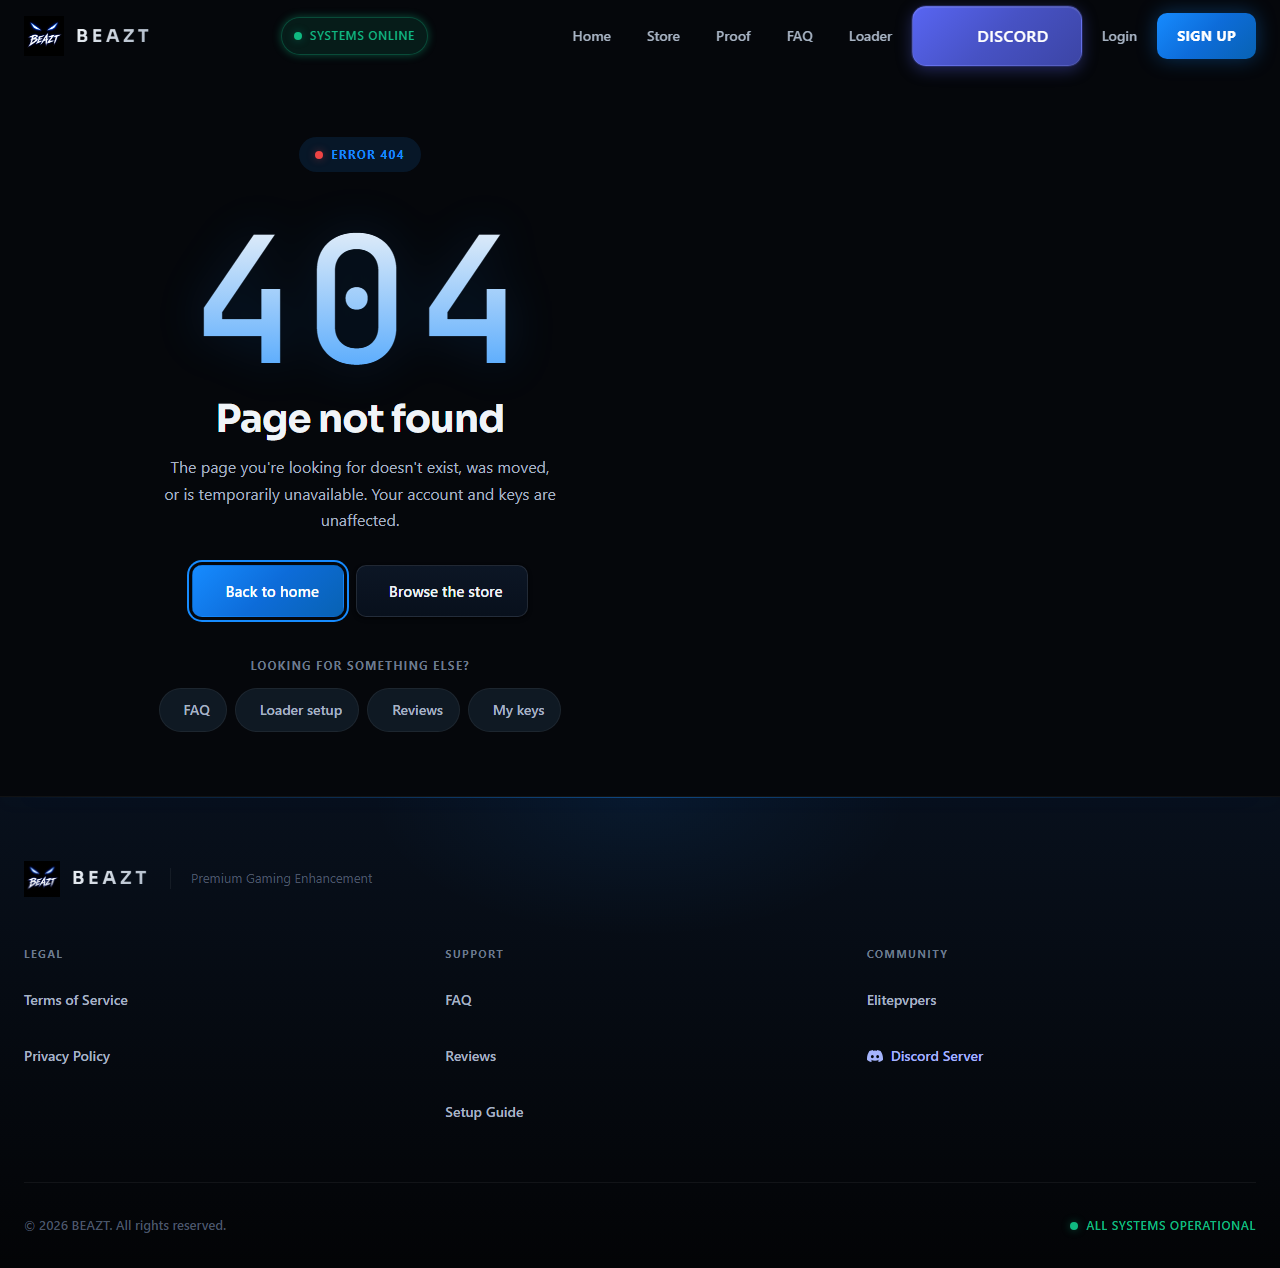
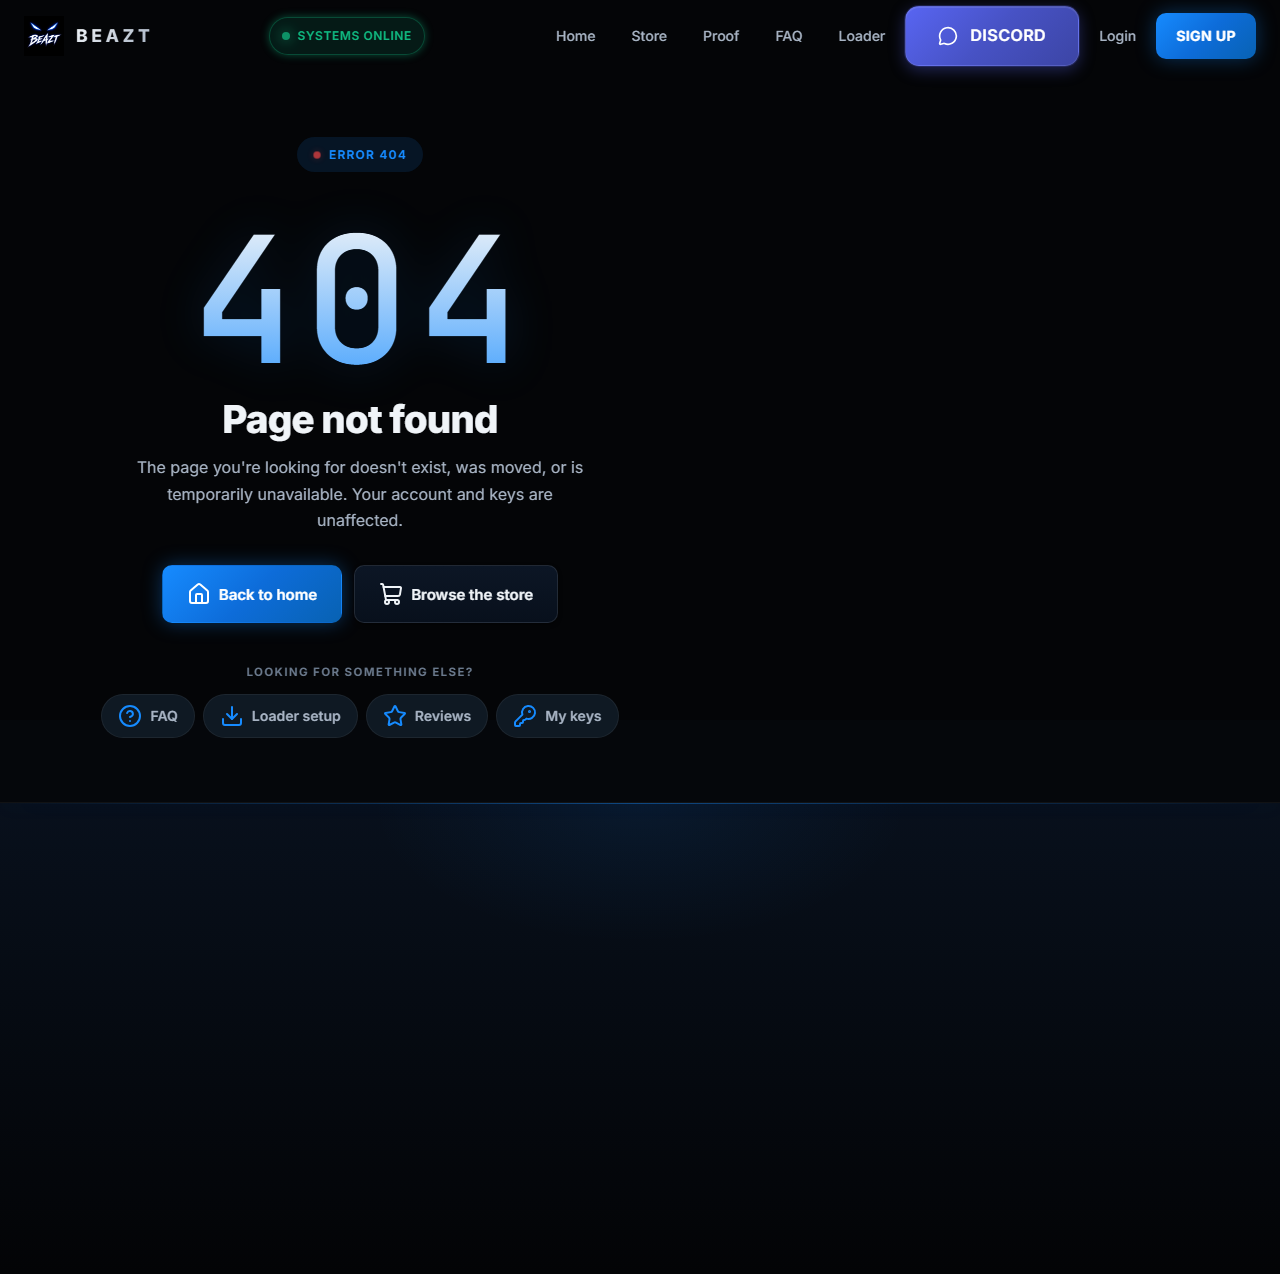
fix(store): merge gzip Vary, verify cheat_image paths before redirect
- app.py: compress_response now appends Accept-Encoding to any pre-existing
  Vary (deduped) instead of overwriting, preserving Vary: Cookie on
  session-bearing responses (shared-cache correctness).
- routes/main.py: cheat_image() verifies a /static/... image_url exists on
  disk before redirecting; set-but-broken paths fall through to the
  generated placeholder so card onerror fallbacks are not defeated.
  External http(s) URLs keep the plain redirect.
- evidence/404: re-verified without reducedMotion; asserts .nf-card
  actually reveals in a normal-motion browser; no unpkg/scrollreveal CDN.
- evidence/polish/followup-hardening: reveal + lucide hydration spot-checks
  on /, /feedback, /product (15/15) and homepage reveal-on-scroll probe
  (16/16).

diff --git a/evidence/polish/followup-hardening/verify.js b/evidence/polish/followup-hardening/verify.js
@@ -1,0 +1,87 @@
+// store-followup-hardening verification: reveal system + Lucide hydration
+// spot-checks on /, /feedback and a real product page against live flask-api.
+const { chromium } = require('E:\\github\\rust beazt\\BEAZT-WEBSITE\\node_modules\\playwright');
+const fs = require('fs');
+const path = require('path');
+
+(async () => {
+  const outDir = 'E:\\github\\rust beazt\\BEAZT-WEBSITE\\evidence\\polish\\followup-hardening';
+  fs.mkdirSync(outDir, { recursive: true });
+  const results = { checks: [], consoleErrors: [], failedRequests: [] };
+  const browser = await chromium.launch();
+  // NO reducedMotion override: verify default-motion behavior end to end.
+  const page = await browser.newPage();
+  const allResponses = [];
+  page.on('response', r => allResponses.push(r.url()));
+  page.on('console', m => { if (m.type() === 'error') results.consoleErrors.push(m.text()); });
+  page.on('requestfailed', r => results.failedRequests.push(r.url() + ' :: ' + (r.failure() || {}).errorText));
+
+  function check(name, ok, detail) {
+    results.checks.push({ name, pass: !!ok, detail: detail || '' });
+    console.log((ok ? 'PASS' : 'FAIL') + ' ' + name + (detail ? ' :: ' : '') + (detail || ''));
+  }
+
+  async function inspectSurface(name, url, waitMs) {
+    await page.goto(url, { waitUntil: 'networkidle' });
+    if (waitMs) await page.waitForTimeout(waitMs);
+    const state = await page.evaluate(() => {
+      // lucide.createIcons() replaces each [data-lucide] placeholder span with
+      // an <svg> carrying the same data-lucide attribute, so a hydrated icon is
+      // either an svg itself or a holder containing an svg.
+      const holders = Array.from(document.querySelectorAll('[data-lucide]'));
+      const hydrated = holders.filter(h => h.tagName.toLowerCase() === 'svg' || h.querySelector('svg'));
+      const reveals = Array.from(document.querySelectorAll('.reveal'));
+      const vis = reveals.filter(el => el.classList.contains('visible'));
+      const hidden = reveals.filter(el => !el.classList.contains('visible') && el.getBoundingClientRect().top < window.innerHeight && getComputedStyle(el).opacity === '0');
+      return {
+        lucideLoaded: !!(window.lucide && typeof window.lucide.createIcons === 'function'),
+        lucideSpans: holders.length, svgSpans: hydrated.length,
+        revealTotal: reveals.length, revealVisible: vis.length, revealStuckInViewport: hidden.length
+      };
+    });
+    check(`${name}: lucide UMD loaded`, state.lucideLoaded, String(state.lucideLoaded));
+    check(`${name}: every [data-lucide] placeholder hydrated to svg`, state.lucideSpans > 0 && state.svgSpans === state.lucideSpans, `${state.svgSpans}/${state.lucideSpans}`);
+    check(`${name}: no .reveal element stuck invisible in viewport`, state.revealStuckInViewport === 0, `stuck=${state.revealStuckInViewport} visible=${state.revealVisible}/${state.revealTotal} (0 reveals = surface uses none)`);
+    check(`${name}: zero console errors`, results.consoleErrors.length === 0, JSON.stringify(results.consoleErrors.slice(0, 3)));
+    results.consoleErrors.length = 0;
+    await page.screenshot({ path: path.join(outDir, `${name.replace(/[^a-z0-9-]/gi, '')}-top.png`), fullPage: false });
+    return state;
+  }
+
+  // homepage
+  await inspectSurface('home', 'http://127.0.0.1:5000/', 400);
+
+  // feedback
+  await inspectSurface('feedback', 'http://127.0.0.1:5000/feedback', 400);
+
+  // discover a real product URL from /cheats, then inspect it
+  await page.goto('http://127.0.0.1:5000/cheats', { waitUntil: 'networkidle' });
+  const productHref = await page.evaluate(() => {
+    const a = document.querySelector('a[href^="/product/"]');
+    return a ? a.getAttribute('href') : null;
+  });
+  check('product link found on /cheats', !!productHref, productHref || 'none');
+  if (productHref) {
+    const state = await inspectSurface('product', 'http://127.0.0.1:5000' + productHref, 400);
+
+    // cheat_image behavior on the live server for this product: with
+    // redirect:'follow' a valid static image_url resolves to an image response.
+    const slug = productHref.split('/').pop();
+    const img = await page.evaluate(async (slug) => {
+      const r = await fetch('/cheat-image/' + slug, { redirect: 'follow' });
+      return { status: r.status, contentType: r.headers.get('content-type'), finalUrl: r.url };
+    }, slug);
+    check(`live /cheat-image/${slug} resolves to an image`, img.status === 200 && (img.contentType || '').startsWith('image/'), JSON.stringify(img));
+    results.cheatImage = img;
+  }
+
+  // no external CDN dependencies site-wide on tested surfaces
+  const cdnHits = allResponses.filter(u => /unpkg\.com|scrollreveal|cdnjs\.cloudflare\.com/i.test(u));
+  check('zero unpkg/scrollreveal CDN requests', cdnHits.length === 0, JSON.stringify(cdnHits));
+
+  fs.writeFileSync(path.join(outDir, 'verify-results.json'), JSON.stringify(results, null, 2));
+  await browser.close();
+  const failed = results.checks.filter(c => !c.pass);
+  console.log('TOTAL ' + results.checks.length + ' FAILED ' + failed.length);
+  process.exit(failed.length ? 1 : 0);
+})();

diff --git a/evidence/404/verify.js b/evidence/404/verify.js
@@ -7,7 +7,12 @@ const path = require('path');
   fs.mkdirSync(outDir, { recursive: true });
   const results = { checks: [], consoleErrors: [], failedRequests: [] };
   const browser = await chromium.launch();
-  const page = await browser.newPage({ reducedMotion: 'reduce' });
+  // NO reducedMotion override: this run must prove the page is visible in a
+  // normal default-motion browser (reveal load-order fix; .nf-card previously
+  // sat inside a single .reveal wrapper and rendered blank).
+  const page = await browser.newPage();
+  const allResponses = [];
+  page.on('response', r => allResponses.push(r.url()));
   page.on('console', m => { if (m.type() === 'error') results.consoleErrors.push(m.text()); });
   page.on('requestfailed', r => results.failedRequests.push(r.url() + ' :: ' + (r.failure() || {}).errorText));
   page.on('response', r => { if (r.status() >= 400 && !r.url().includes('fonts.g') && !r.url().includes('unpkg.com')) results.failedRequests.push(r.status + ' ' + r.url()); });
@@ -31,6 +36,15 @@ const path = require('path');
   check('decorative 404 code present', (await page.locator('.nf-code').count()) === 1, '');
   check('h1 Page not found', ((await page.textContent('h1')) || '').trim() === 'Page not found', (await page.textContent('h1') || '').trim());
   check('explanatory lead >= 40 chars', ((await page.textContent('.nf-lead')) || '').length >= 40, String(((await page.textContent('.nf-lead')) || '').length));
+  // reveal load-order fix: .nf-card sits in a .reveal wrapper and must actually
+  // reveal in a normal default-motion browser (previously stuck at opacity 0).
+  const nfCard = await page.evaluate(() => {
+    const el = document.querySelector('.nf-card');
+    if (!el) return null;
+    const cs = getComputedStyle(el);
+    return { hasVisible: el.classList.contains('visible'), opacity: cs.opacity, rectH: Math.round(el.getBoundingClientRect().height) };
+  });
+  check('.nf-card revealed in normal-motion browser', !!nfCard && nfCard.hasVisible && nfCard.opacity === '1' && nfCard.rectH > 0, JSON.stringify(nfCard));
   check('primary CTA Back to home -> /', (await page.getAttribute('a.btn-primary', 'href')) === '/', await page.getAttribute('a.btn-primary', 'href'));
   check('secondary CTA -> /cheats', (await page.getAttribute('a.btn-secondary', 'href')) === '/cheats', await page.getAttribute('a.btn-secondary', 'href'));
   const chips = await page.$$eval('.nf-chip', els => els.map(a => ({ text: a.textContent.trim(), href: a.getAttribute('href') })));
@@ -98,6 +112,7 @@ const path = require('path');
   }
   check('zero console errors (excluding document 404)', realConsoleErrors().length === 0, JSON.stringify(realConsoleErrors().slice(0, 5)));
   check('zero failed requests (excluding document 404)', realFailedRequests().length === 0, JSON.stringify(realFailedRequests().slice(0, 5)));
+  check('no unpkg/scrollreveal CDN dependency', !allResponses.some(u => /unpkg\.com|scrollreveal/i.test(u)), String(allResponses.filter(u => /unpkg\.com|scrollreveal/i.test(u)).length) + ' CDN hits');
 
   fs.writeFileSync(path.join(outDir, 'VAL-404-results.json'), JSON.stringify(results, null, 2));
   await browser.close();

diff --git a/evidence/polish/followup-hardening/reveal-scroll-probe.js b/evidence/polish/followup-hardening/reveal-scroll-probe.js
@@ -1,0 +1,28 @@
+// store-followup-hardening: prove all homepage .reveal elements reveal on scroll
+// in a normal default-motion browser (dependency-free scroll reveal, VAL-PERF-001).
+const { chromium } = require('E:\\github\\rust beazt\\BEAZT-WEBSITE\\node_modules\\playwright');
+const fs = require('fs');
+const path = require('path');
+
+(async () => {
+  const outDir = __dirname;
+  const browser = await chromium.launch();
+  const page = await browser.newPage(); // NO reducedMotion override
+  await page.goto('http://127.0.0.1:5000/', { waitUntil: 'networkidle' });
+  const before = await page.evaluate(() => ({
+    total: document.querySelectorAll('.reveal').length,
+    visible: document.querySelectorAll('.reveal.visible').length
+  }));
+  await page.evaluate(() => window.scrollTo(0, document.documentElement.scrollHeight));
+  await page.waitForTimeout(1500);
+  const after = await page.evaluate(() => ({
+    total: document.querySelectorAll('.reveal').length,
+    visible: document.querySelectorAll('.reveal.visible').length
+  }));
+  const pass = after.total > 0 && after.visible === after.total;
+  const result = { check: 'homepage .reveal elements all reveal on scroll (default motion)', before, after, pass };
+  console.log(JSON.stringify(result));
+  fs.writeFileSync(path.join(outDir, 'reveal-scroll-results.json'), JSON.stringify(result, null, 2));
+  await browser.close();
+  process.exit(pass ? 0 : 1);
+})();

diff --git a/routes/main.py b/routes/main.py
@@ -62,8 +62,20 @@ def cheat_image(slug):
         abort(404)
 
     if product.image_url:
-        from flask import redirect as _redirect
-        return _redirect(product.image_url)
+        # Only redirect when the target actually exists: a set-but-broken
+        # image_url would otherwise 404 at the redirect target and defeat
+        # the card's onerror fallback to this placeholder. External URLs
+        # cannot be verified locally, so they keep the plain redirect.
+        from pathlib import Path as _Path
+        if product.image_url.startswith("/static/"):
+            static_file = _Path(current_app.root_path) / "static" / product.image_url[len("/static/"):]
+            if not static_file.is_file():
+                # Missing static file -> fall through to the placeholder.
+                pass
+            else:
+                return redirect(product.image_url)
+        else:
+            return redirect(product.image_url)
 
     from PIL import Image, ImageDraw, ImageFont
 

diff --git a/app.py b/app.py
@@ -113,7 +113,13 @@ def compress_response(response):
     response.set_data(compressed)
     response.headers["Content-Encoding"] = "gzip"
     response.headers["Content-Length"] = str(len(compressed))
-    response.headers["Vary"] = "Accept-Encoding"
+    # Append (do not overwrite) Accept-Encoding: authed responses already
+    # carry Vary: Cookie (session handling), and clobbering it would let
+    # shared caches serve one user's compressed page to another.
+    vary = [v.strip() for v in response.headers.get("Vary", "").split(",") if v.strip()]
+    if "Accept-Encoding" not in vary:
+        vary.append("Accept-Encoding")
+    response.headers["Vary"] = ", ".join(vary)
     response.headers.pop("ETag", None)  # representation changed
     return response
 
